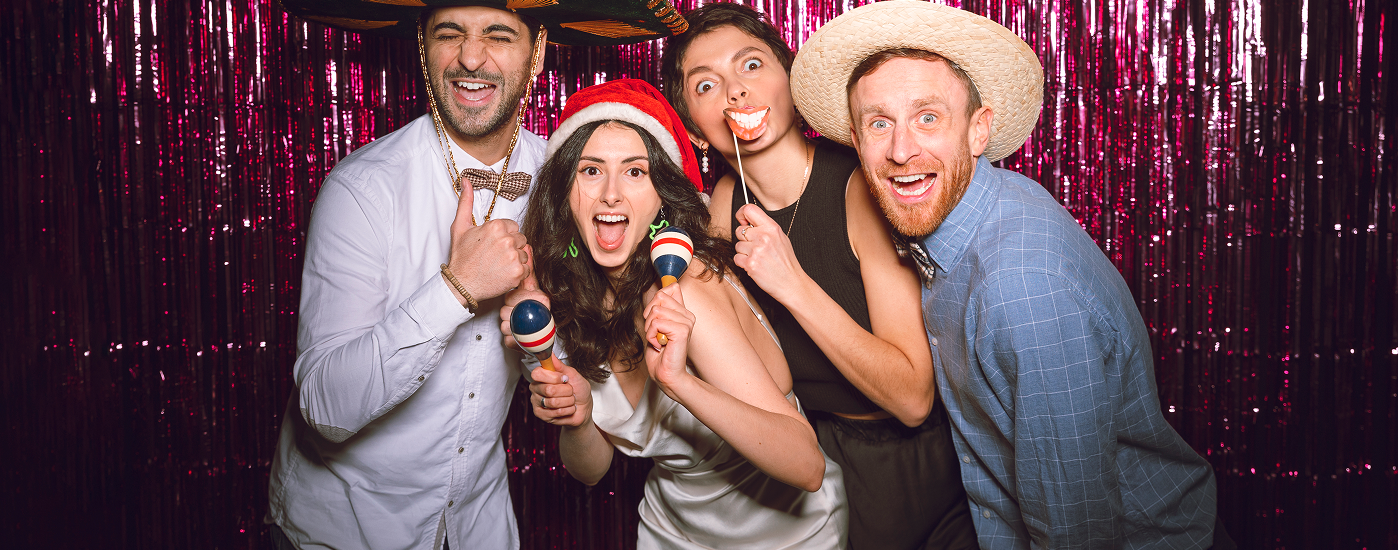
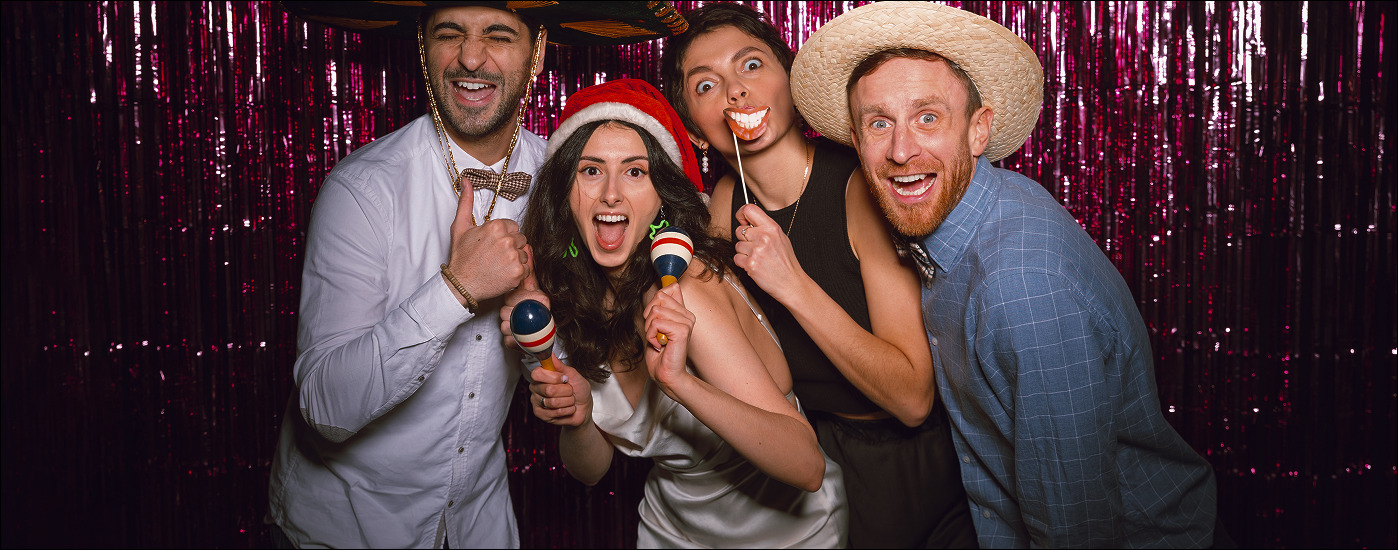
remove some image

diff --git a/src/components/Packages.jsx b/src/components/Packages.jsx
@@ -27,7 +27,7 @@ const Packages = () => {
       <div className="relative"> 
         <img
           src={medium2}
-          className="md:w-[1500px] rounded-lg opacity-90  my-5 md:h-[400px] h-[350px] flex justify-center overflow-hidden z-0"
+          className="md:w-[1500px] rounded-lg   my-5 md:h-[400px] h-[350px] flex justify-center overflow-hidden z-0"
           alt="Home Image"
         />
         <p className="absolute inset-0 flex items-center md:text-8xl font-baskerville font- md:font-pinyon justify-center  text-white text-3xl ">
